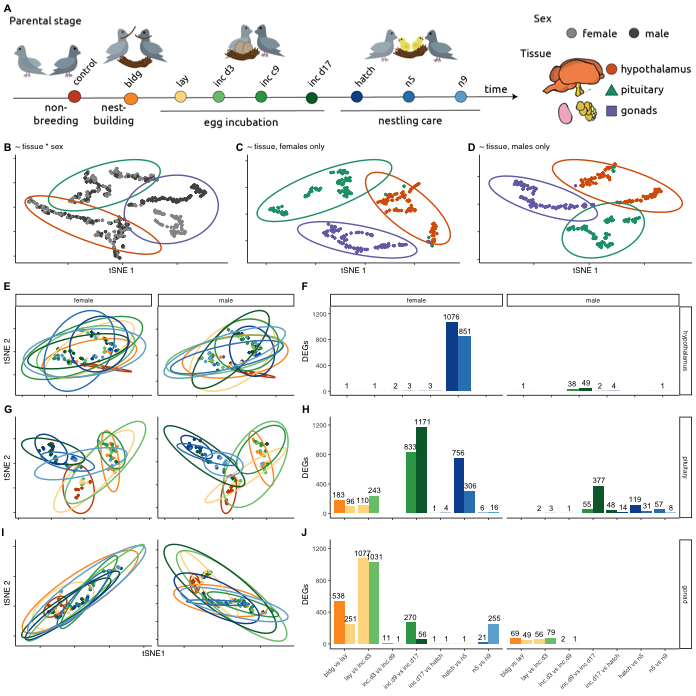
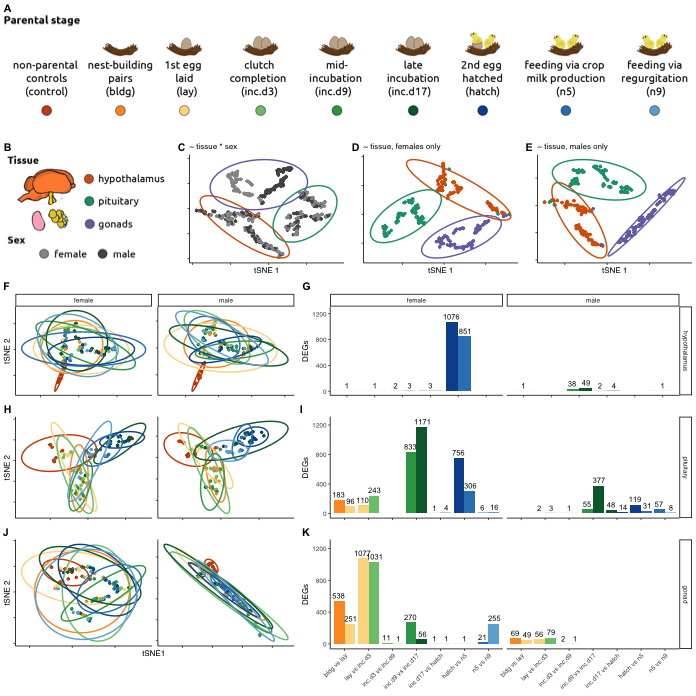
now with better image placement

diff --git a/analysis/figure-1.md b/analysis/figure-1.md
@@ -509,12 +509,16 @@ make figure
     a <- png::readPNG("../figures/images/fig_fig1a.png")
     a <- ggdraw() +  draw_image(a, scale = 1)
 
-    b <- plottsneelipse(chartsne, chartsne$sex, allcolors)   + labs(y = " ", subtitle = "~ tissue * sex")    
-    c <- plottsneelipse(ftsne, ftsne$tissue, allcolors ) + labs(y = " ", subtitle = "~ tissue, females only")
-    d <- plottsneelipse(mtsne, mtsne$tissue, allcolors ) + labs(y = " ", subtitle = "~ tissue, males only") 
+    b <- png::readPNG("../figures/images/fig_fig1b.png")
+    b <- ggdraw() +  draw_image(b, scale = 1)
 
-    bcd <- plot_grid(b,c,d, nrow = 1, labels = c("B", "C", "D"), label_size = 8 )
-    abcd <- plot_grid(a, bcd, nrow = 2, labels = c("A"), label_size = 8, rel_heights = c(1,1))
+
+    c <- plottsneelipse(chartsne, chartsne$sex, allcolors)   + labs(y = " ", subtitle = "~ tissue * sex")    
+    d <- plottsneelipse(ftsne, ftsne$tissue, allcolors ) + labs(y = " ", subtitle = "~ tissue, females only")
+    e <- plottsneelipse(mtsne, mtsne$tissue, allcolors ) + labs(y = " ", subtitle = "~ tissue, males only") 
+
+    bcde <- plot_grid(b,c,d,e, nrow = 1, labels = c("B", "C", "D", "E"), label_size = 8 )
+    abcd <- plot_grid(a, bcde, nrow = 2, labels = c("A"), label_size = 8, rel_heights = c(1,1))
 
     e <- plottsneelipsev2(hyptsne, hyptsne$treatment, allcolors) + 
       labs( x = NULL)  + 
@@ -531,7 +535,7 @@ make figure
       labs(x = "tSNE1 \n \n \n \n")
 
     egi <- plot_grid(e,g,i, nrow = 3, rel_heights = c(1,1,1.4),
-                     labels = c("E", "G", "I"), label_size = 8)
+                     labels = c("F", "H", "J"), label_size = 8)
 
     # hyp
     f <- makebargraph("hypothalamus","DEGs", 0, 1250) + 
@@ -548,7 +552,7 @@ make figure
       scale_x_discrete(labels = comparisonlabels)
 
     fhj <- plot_grid(f,h,j, nrow = 3, rel_heights = c(1,1,1.4),
-                     labels = c("F", "H", "J"), label_size = 8)  
+                     labels = c("G", "I", "K"), label_size = 8)  
 
     efghij <- plot_grid(egi, fhj, nrow = 1, align = "h", rel_widths = c(1.5,2))
 
